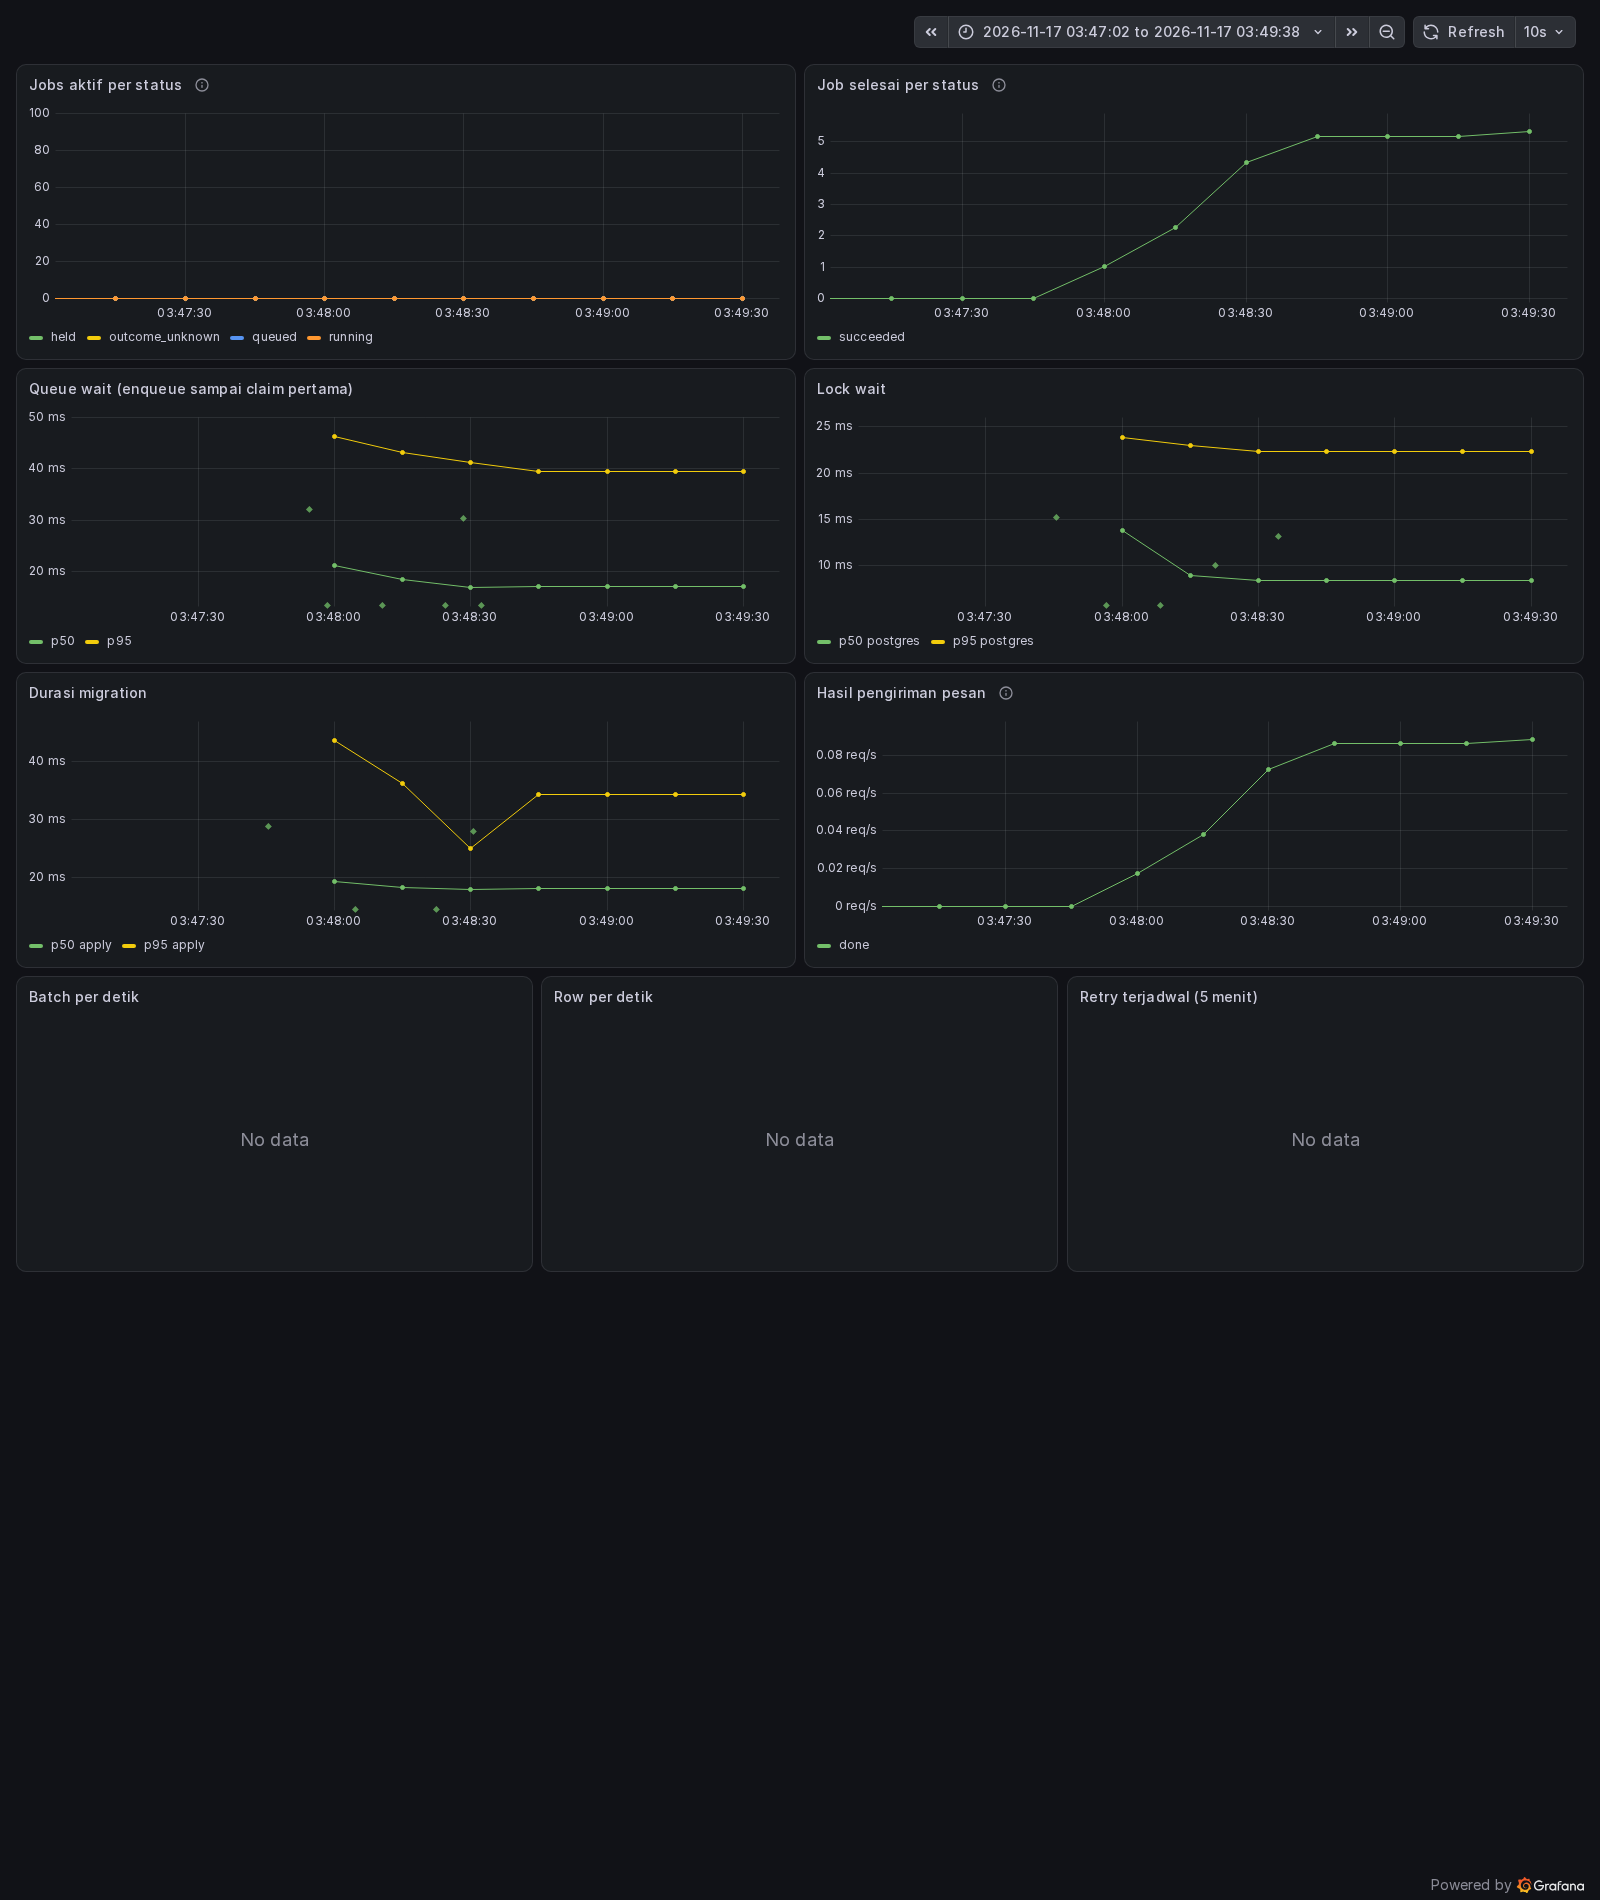
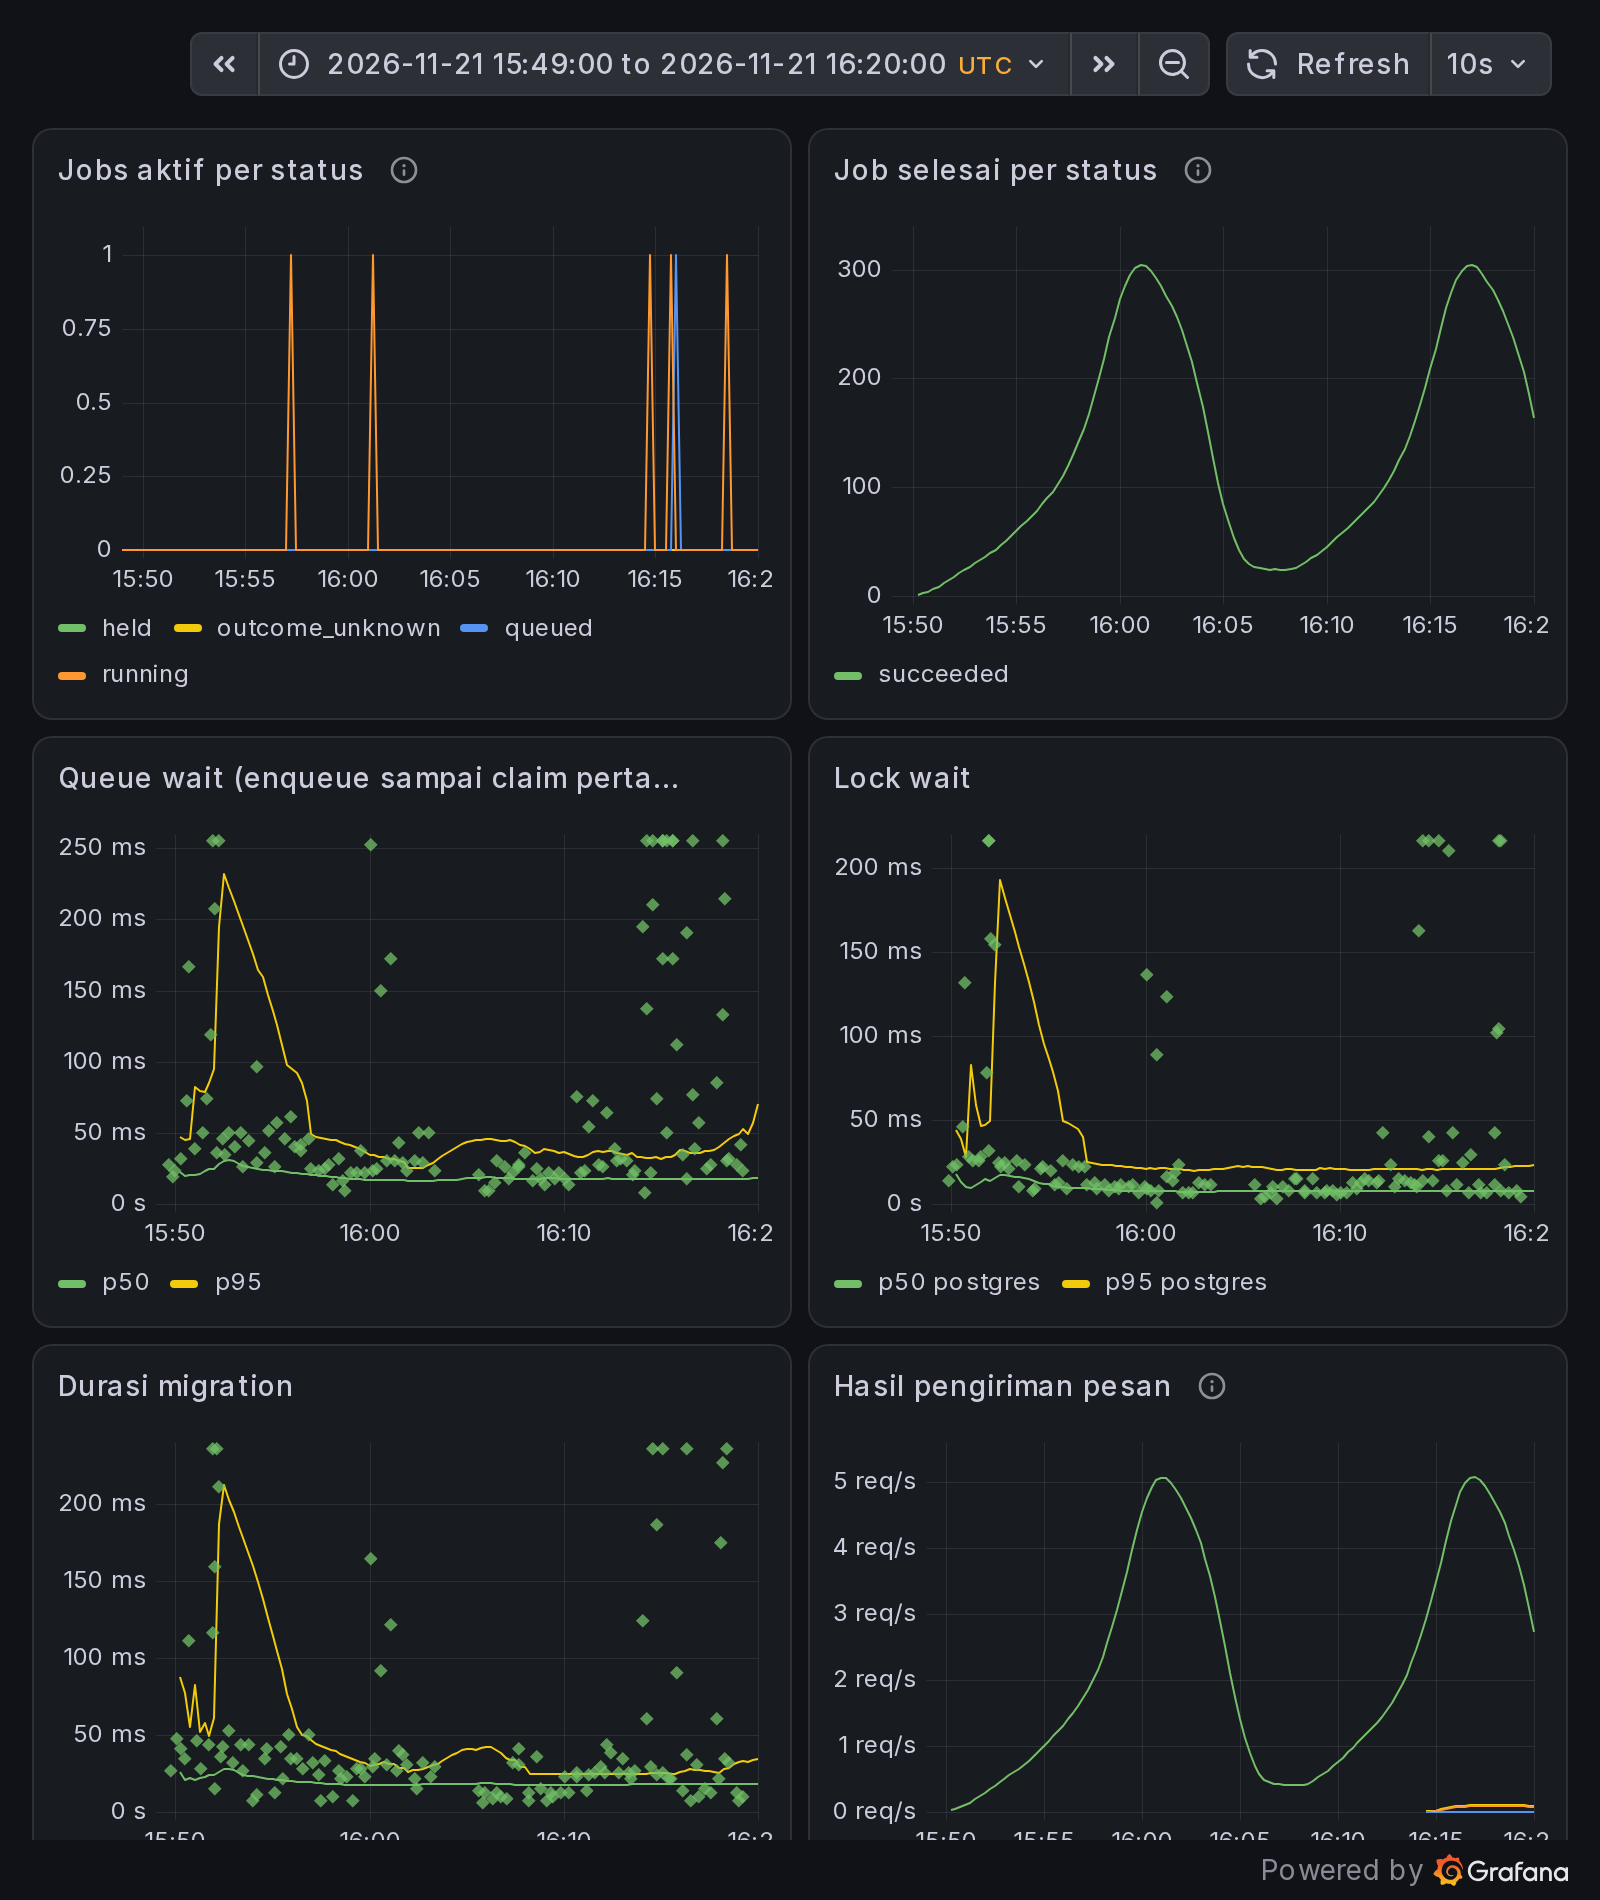
docs(observability): show the dashboards from the k6 rerun

diff --git a/README.md b/README.md
@@ -271,11 +271,11 @@ Contoh korelasi dari run nyata: request execute dengan `trace_id` `c173c8e4421ab
 |---|---|
 | ![Trace execute di Tempo](docs/observability/img/trace.png) | ![Log dengan trace_id yang sama di Loki](docs/observability/img/trace-logs.png) |
 
-Dashboard terprovision:
+Dashboard terprovision, diambil dari run ulang k6 21 November 2026 (15.49–16.20 UTC). Puncak pertama adalah run tersebar dan puncak kedua run satu database (lihat "Run ulang setelah perbaikan"):
 
-- *Migration queue* (k6 smoke, 17 November 2026): job aktif per status, job selesai, queue wait, lock wait, durasi (titik belah ketupat adalah exemplar), dan alasan pengiriman pesan. ![Dashboard Migration queue](docs/observability/img/migration-queue.png)
-- *Load test (k6)* (stress tersebar, 16 November 2026). Lonjakan "Request gagal" di awal adalah nilai terakhir dari run smoke sebelumnya yang belum kedaluwarsa, bukan bagian run ini. ![Dashboard Load test](docs/observability/img/load-test.png)
-- *Database pools* dan *API HTTP* (stress tersebar yang sama). ![Dashboard Database pools](docs/observability/img/db-pool.png) ![Dashboard API HTTP](docs/observability/img/api.png)
+- *Migration queue*: job aktif per status, job selesai, queue wait, lock wait, durasi (titik belah ketupat adalah exemplar), dan alasan pengiriman pesan. Antrean `queued` tidak pernah menumpuk pada kedua run. ![Dashboard Migration queue](docs/observability/img/migration-queue.png)
+- *Load test (k6)*: VU, request per detik, request gagal (0), latensi, queue wait, durasi, dan job per menit. ![Dashboard Load test](docs/observability/img/load-test.png)
+- *Database pools* dan *API HTTP*. Panel menunggu koneksi tetap 0 untuk pool metadata dan target, dan tidak ada respons 4xx atau 5xx. ![Dashboard Database pools](docs/observability/img/db-pool.png) ![Dashboard API HTTP](docs/observability/img/api.png)
 
 ## Stress test k6 (bonus)
 
